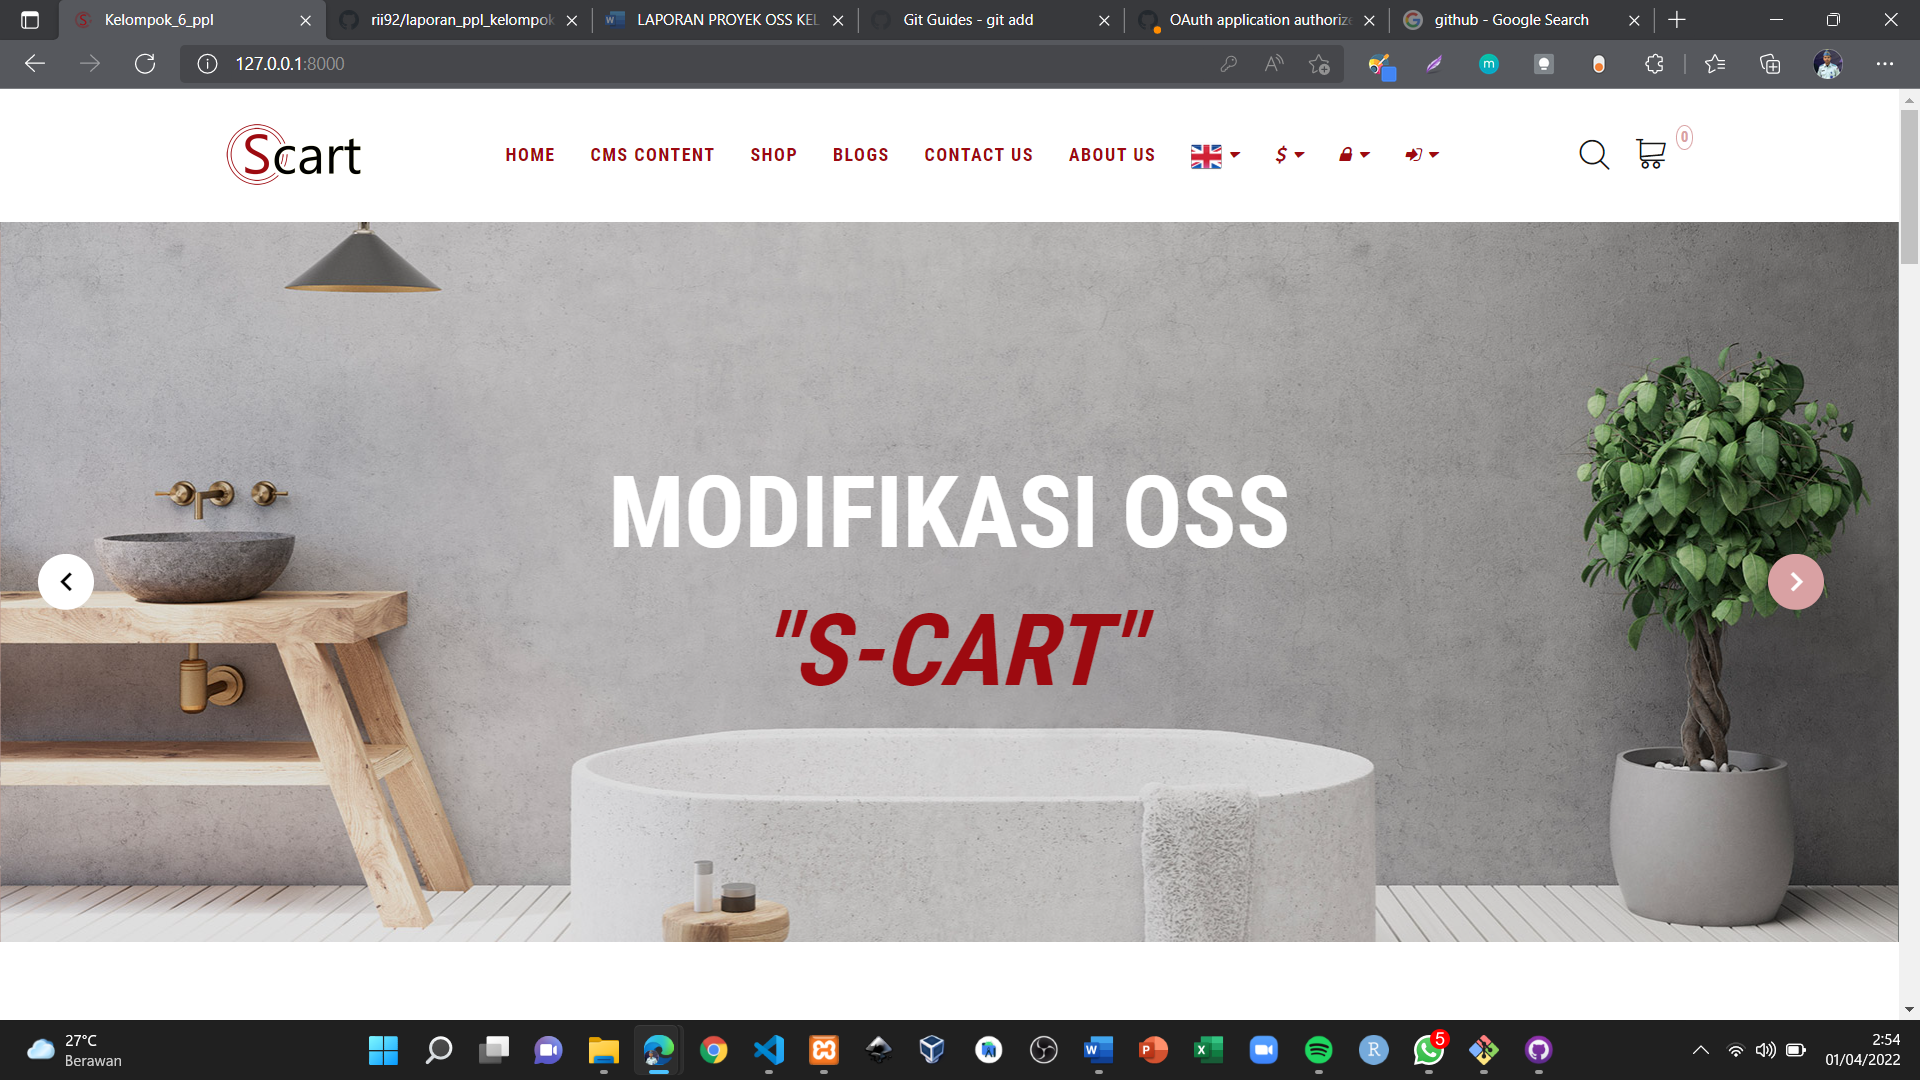
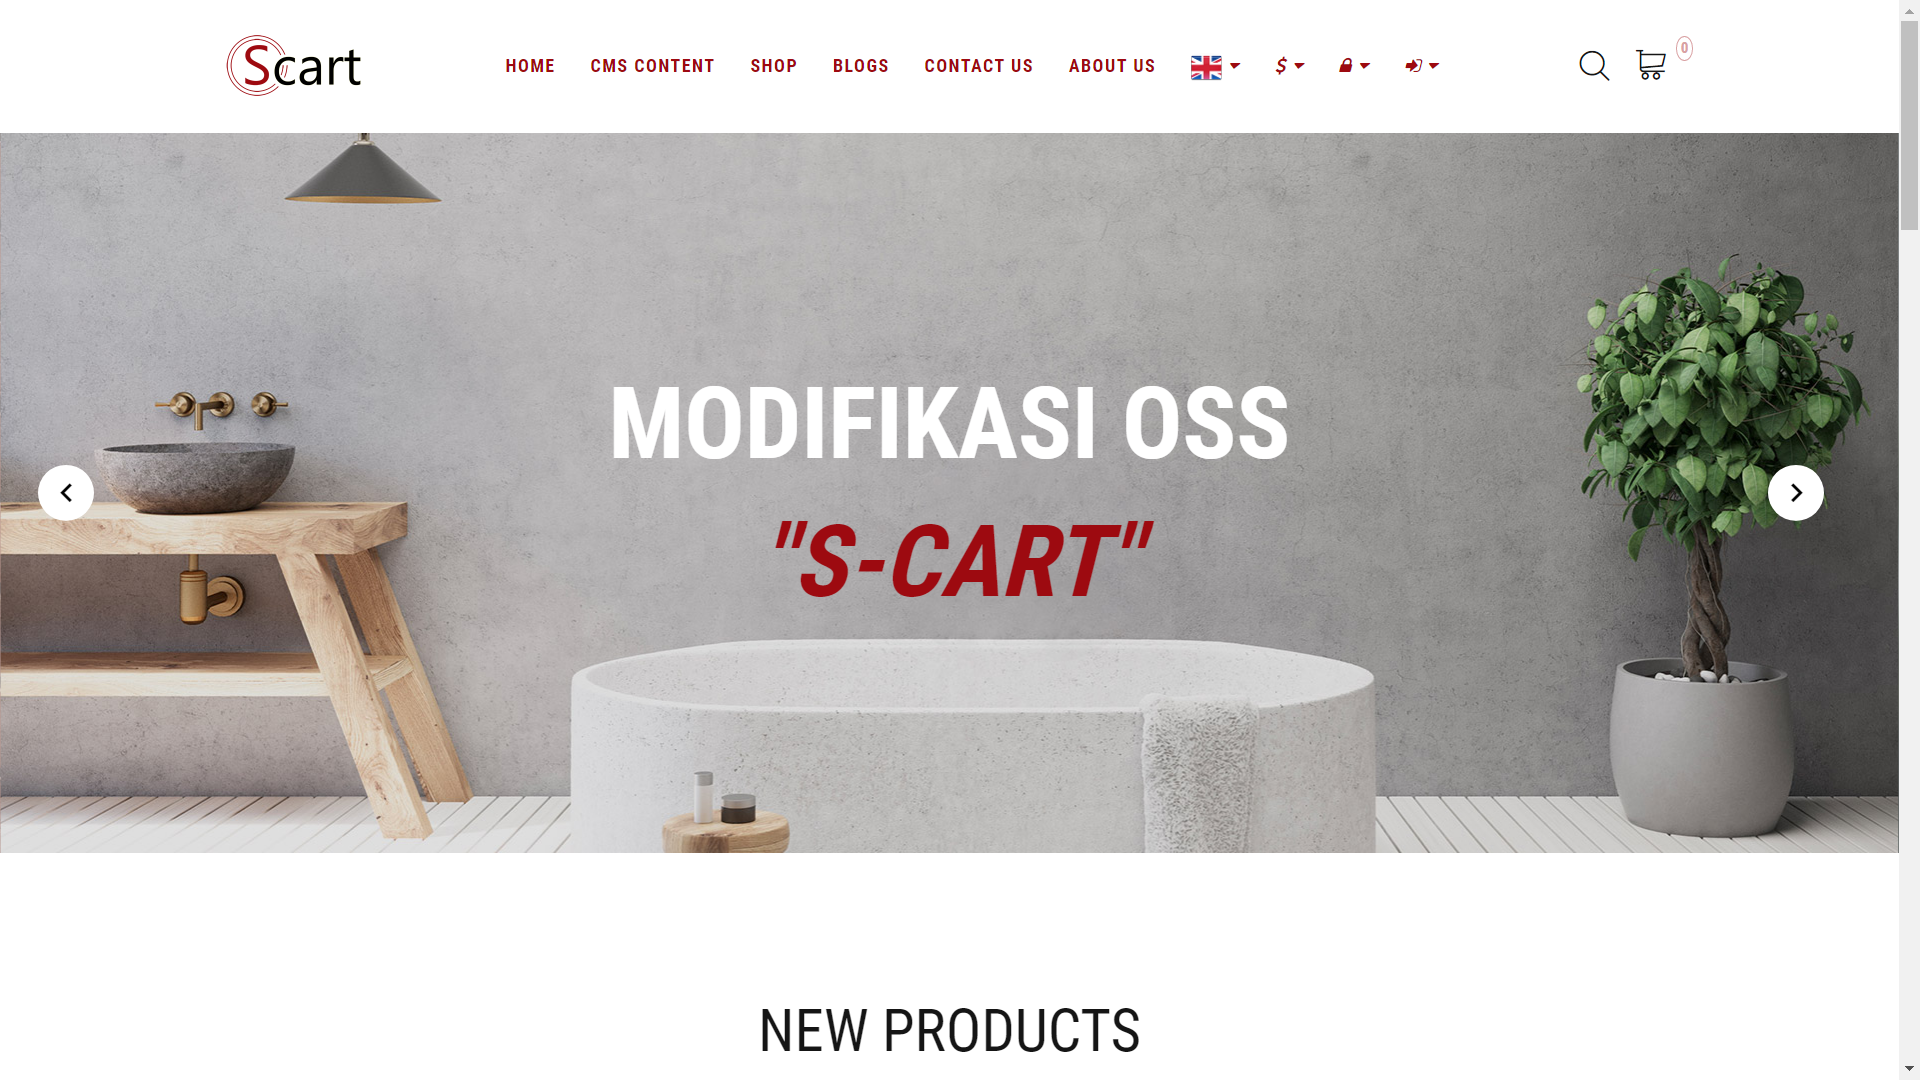
deskripsi landing page

diff --git a/readme.md b/readme.md
@@ -5,6 +5,16 @@
 OSS (Open Source Software) yang dipilih untuk dilakukan penambahan fitur atau modifikasi yaitu S-cart. S-cart merupakan aplikasi berbasis web yang menggunakan framework PHP yaitu Laravel dan framework CSS yaitu Bootstrap. S-Cart adalah proyek situs web e-niaga gratis untuk individu dan bisnis. S-cart ini dibangun di atas framework (kerangka kerja) Laravel dan teknologi terbaru. Tujuan dari dibuatnya S-Cart ini adalah "Efisien dan ramah untuk semua orang".
 
 
+<img src="/assets/images/frontend/landingpage1.png">
+Tampilan Landing Page Awal S-Cart yang sudah dimodifikasi
+<br>
+
+
+<img src="/assets/images/frontend/login.png">
+Tampilan halaman login sc_admin yang sudah dimodifikasi
+<br>
+
+
 ## Link Ke Repositori GIT
 
 <pre>
